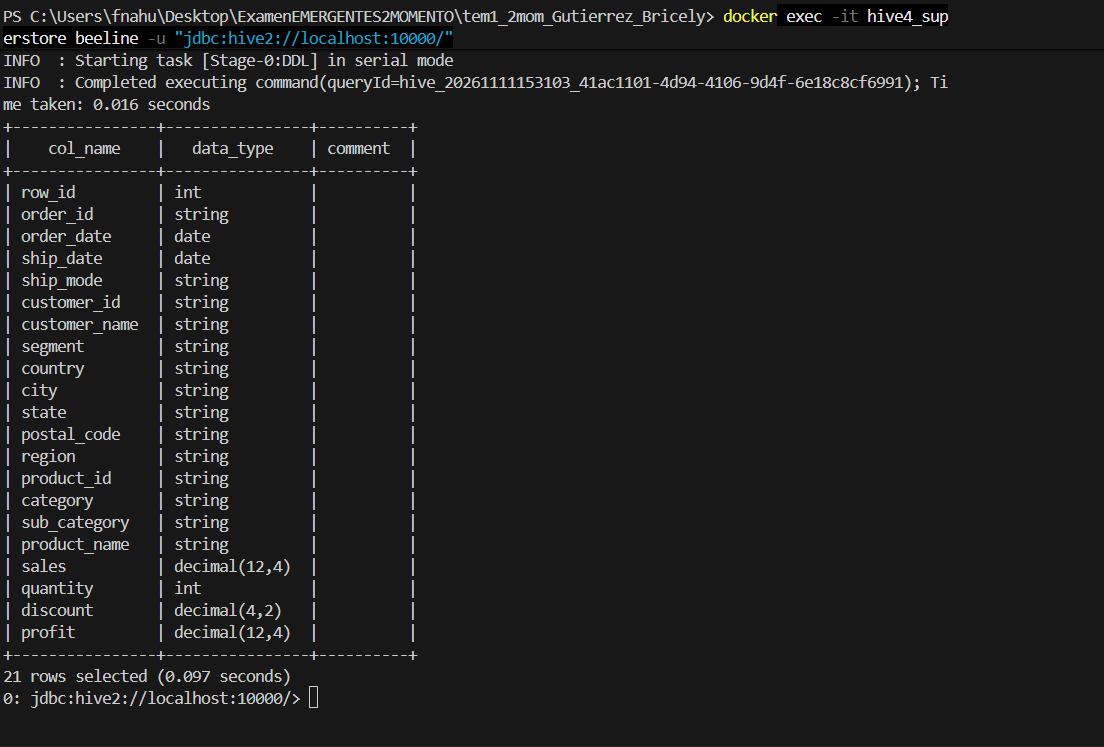
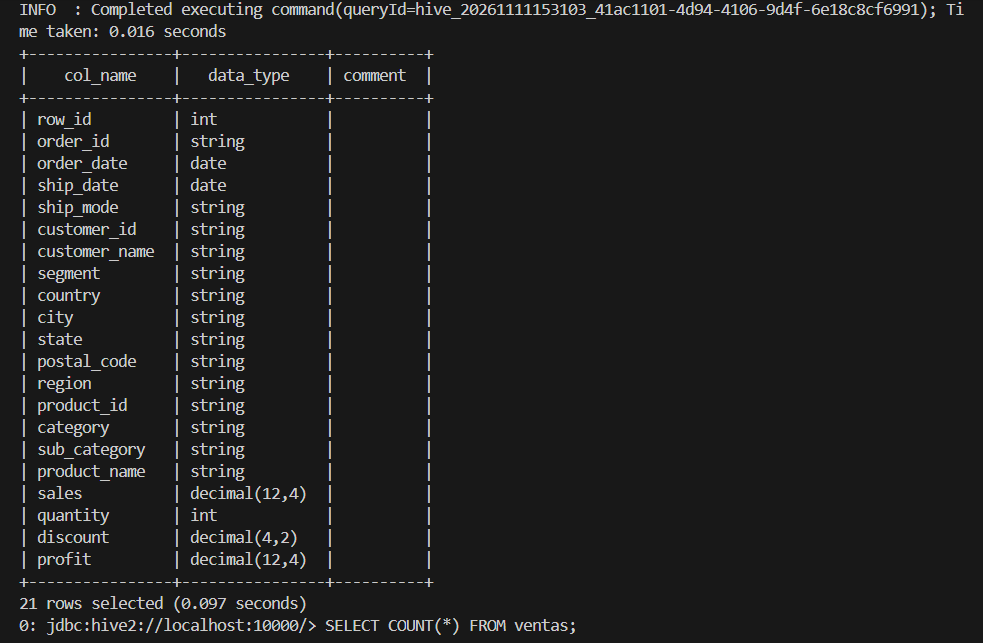
P2: Auditoria de calidad de datos

Changed region(s): [[0.0, 0.0, 0.9766, 0.9953], [0.2747, 0.1555, 0.3662, 0.2177]]

diff --git a/README.md b/README.md
@@ -74,3 +74,35 @@ Los totales coinciden con los calculados directamente sobre el CSV.
 
 ### Conclusión
 Se cargaron los 9.994 registros sin pérdidas ni nulos. Se usó una tabla de paso en STRING porque el CSV trae fechas `M/d/yyyy`, comillas y códigos postales con ceros perdidos (438 de 4 dígitos, completados con `lpad`). La tabla `ventas` queda tipada y en ORC, lista para las siguientes preguntas.
+
+## Pregunta 2. Auditoría de calidad e integridad de datos
+
+### Estrategia
+Con [pregunta2.sql](pregunta2.sql): una consulta con `stack` sobre `stg_superstore` cuenta nulos o vacíos en las 21 columnas, y otra reúne en una tabla (`UNION ALL`) los controles de duplicados, fechas, ventas y descuentos. Las fechas inválidas se buscan en `stg_superstore`, porque en `ventas` ya estarían convertidas. El resto se revisa en `ventas`.
+
+Ejecución:
+```
+docker cp pregunta2.sql hive4_superstore:/tmp/pregunta2.sql
+docker exec hive4_superstore beeline -u "jdbc:hive2://localhost:10000/" -f /tmp/pregunta2.sql
+```
+
+### Resultados (ejecutados en Hive)
+
+| Control | Cantidad | Tratamiento propuesto |
+|---|---|---|
+| Total de registros | 9.994 | Referencia |
+| `row_id` duplicados | 0 | Conservar un registro por `row_id` |
+| Órdenes únicas | 5.009 | Referencia |
+| Clientes únicos | 793 | Referencia |
+| Nulos o vacíos (21 columnas) | 0 en todas | Imputar o excluir según el campo |
+| Fechas inválidas | 0 | Excluir o corregir desde la fuente |
+| Envío anterior al pedido | 0 | Excluir o intercambiar fechas |
+| Ventas ≤ 0 | 0 | Excluir del análisis de ventas |
+| Descuento fuera de 0–1 | 0 | Excluir o limitar a 0–1 |
+
+### Interpretación
+
+Los 9.994 registros no presentan duplicados, valores nulos ni errores en fechas, ventas o descuentos. Esto indica que los datos tienen buena calidad para realizar los análisis.
+
+### Conclusión
+Los datos son consistentes y se pueden usar sin limpieza adicional en las siguientes preguntas.
